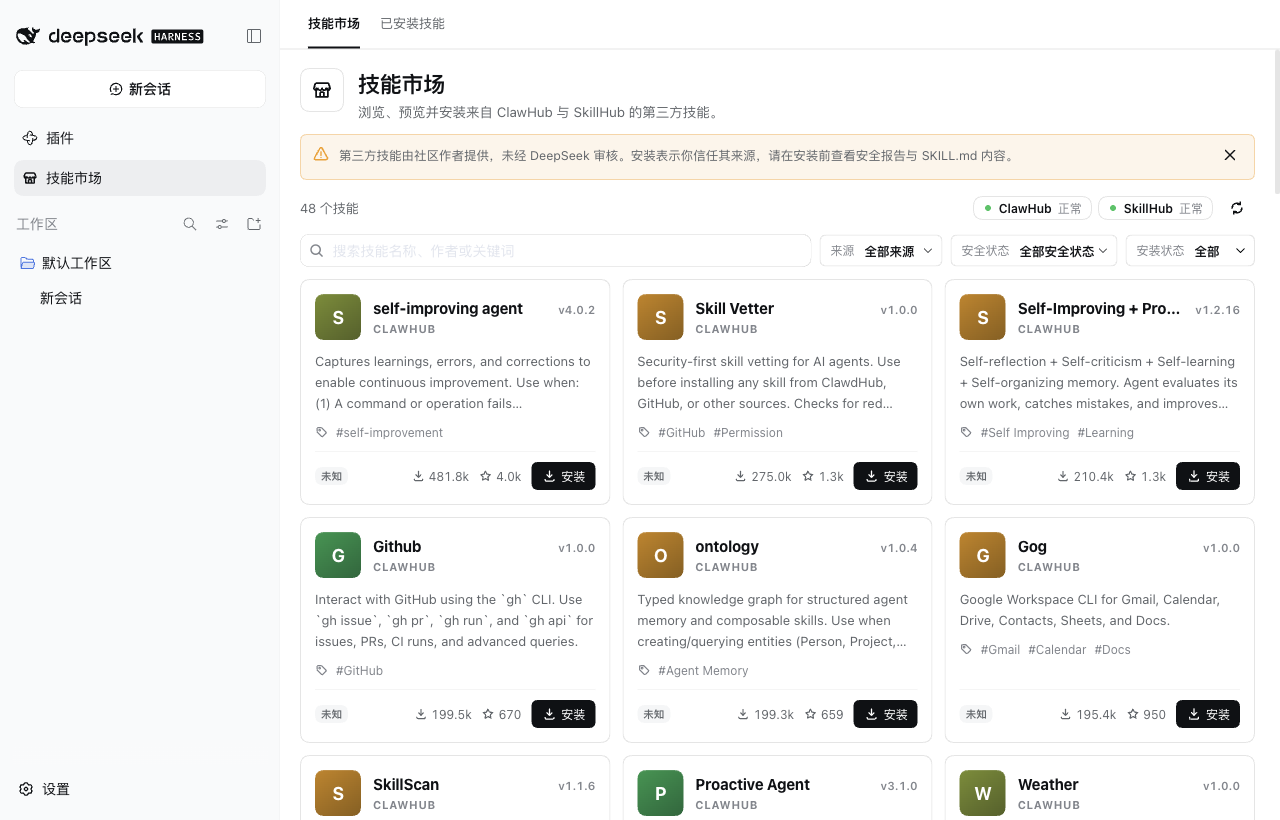
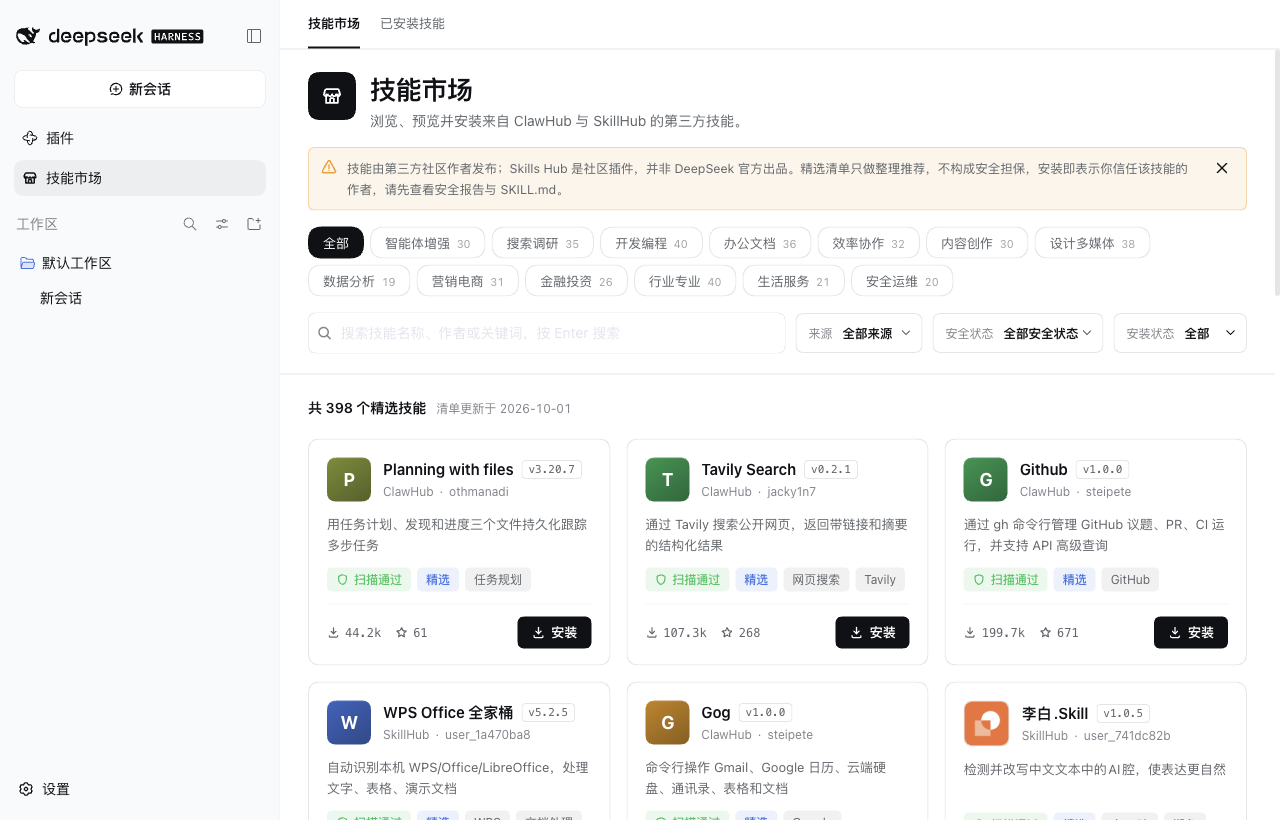
chore: release skills hub 0.0.3

diff --git a/docs/RELEASE.md b/docs/RELEASE.md
@@ -1,6 +1,6 @@
-# Release 0.0.2
+# Release 0.0.3
 
-Package: `@nanmicoder/dsh-skills-hub`. Repository: `NanmiCoder/dsh-skills-hub`. Tag: `v0.0.2`. npm channel: `latest`. This plugin release is independent of the host's `0.2.0-rc.2` version and retains that exact compatibility cohort.
+Package: `@nanmicoder/dsh-skills-hub`. Repository: `NanmiCoder/dsh-skills-hub`. Tag: `v0.0.3`. npm channel: `latest`. This plugin release is independent of the host's `0.2.0-rc.2` version and retains that exact compatibility cohort.
 
 ## Before publication
 
@@ -11,7 +11,7 @@ Package: `@nanmicoder/dsh-skills-hub`. Repository: `NanmiCoder/dsh-skills-hub`. 
 
 ## GitHub Actions publication
 
-Publication runs online in `.github/workflows/release.yml`, matching the AgentTeams release model. Push `v0.0.2` to trigger it, or dispatch the workflow with an explicit version. Both Node 22.19 and 24 must pass validation. The Node 24 job uploads the built tarball and SHA-256 checksum; the publication job verifies and publishes that exact artifact using npm 11.19.0. It does not rebuild during publication. A GitHub Release is published only after npm succeeds.
+Publication runs online in `.github/workflows/release.yml`, matching the AgentTeams release model. Push `v0.0.3` to trigger it, or dispatch the workflow with an explicit version. Both Node 22.19 and 24 must pass validation. The Node 24 job uploads the built tarball and SHA-256 checksum; the publication job verifies and publishes that exact artifact using npm 11.19.0. It does not rebuild during publication. A GitHub Release is published only after npm succeeds.
 
 Configure npm Trusted Publishing for GitHub owner `NanmiCoder`, repository `dsh-skills-hub`, workflow `release.yml`, environment `npm`, allowing direct publication. OIDC uses `id-token: write`; routine releases need no local npm login and no stored npm token. The existing AgentTeams trust binding is package-specific and does not authorize this new package.
 
@@ -21,4 +21,4 @@ Before tagging, commit all source and generated artifacts, confirm the version a
 
 ## After publication / recovery
 
-Install `@nanmicoder/dsh-skills-hub@0.0.2` into an isolated profile and repeat the smoke flow. Compare the downloaded package and expected version before announcing availability. If a release is faulty, publish a new fixed version or deprecate the faulty version with a clear message; do not rewrite published Git tags or assume deleting a GitHub Release retracts npm. Preserve user skills when removing or replacing the plugin.
+Install `@nanmicoder/dsh-skills-hub@0.0.3` into an isolated profile and repeat the smoke flow. Compare the downloaded package and expected version before announcing availability. If a release is faulty, publish a new fixed version or deprecate the faulty version with a clear message; do not rewrite published Git tags or assume deleting a GitHub Release retracts npm. Preserve user skills when removing or replacing the plugin.

diff --git a/README_EN.md b/README_EN.md
@@ -19,16 +19,17 @@
 
 Search ClawHub and SkillHub, read a skill’s instructions, and install it into Harness. Manage marketplace installations and existing local skills together in **Installed**.
 
-Current version: **0.0.2**. Browsed lists, details and file previews are cached locally for 60 minutes by default and remain available after restarting the desktop app. [Release notes](./release-notes/v0.0.2.md)
+Current version: **0.0.3**. The home page now opens on 398 curated skills in 13 categories, with a redesigned detail page that explains what a skill will do once installed. [Release notes](./release-notes/v0.0.3.md)
 
 <p align="center">
-  <img src="./assets/readme/marketplace.png" width="100%" alt="Skills Hub marketplace with search, filters and skill cards.">
+  <img src="./assets/readme/marketplace.png" width="100%" alt="Skills Hub marketplace with categories, search, filters and curated skill cards.">
 </p>
 
 | Feature | What it does |
 | --- | --- |
-| **Discover skills** | Search and filter ClawHub and SkillHub together, with more results as you scroll. |
-| **Preview before installing** | Read instructions, inspect files and check security reports from the source. |
+| **Curated catalogue** | 398 popular ClawHub and SkillHub skills in 13 categories, shipped with the plugin and shown instantly. |
+| **Live search** | Type a keyword to search every skill on both marketplaces; same-name skills are told apart by author. |
+| **Preview before installing** | Read instructions and files, check upstream scans, and see the commands, secrets and network hosts a skill uses. |
 | **Manage installed skills** | Search local skills, inspect their source and installation path, and confirm removal. |
 | **Local cache** | Reuse browsed pages, details and file previews across desktop restarts. |
 
@@ -47,18 +48,18 @@ https://github.com/NanmiCoder/dsh-skills-hub
 **Or the npm package name**
 
 ```text
-@nanmicoder/dsh-skills-hub@0.0.2
+@nanmicoder/dsh-skills-hub@0.0.3
 ```
 
 Click **Install → Enable now**, then open **Skills Hub** from the sidebar.
 
 ## Use
 
-1. **Find**: enter a keyword or filter by source and security status.
+1. **Find**: browse the curated catalogue by category, or enter a keyword to search every skill.
 2. **Preview**: open a skill to read its instructions and inspect its files.
 3. **Install and manage**: confirm installation, then find or remove it in **Installed**.
 
-Skills come from third-party authors. Check the source and instructions before installing; security reports are provided for reference.
+Skills are published by third-party community authors. Skills Hub is a community plugin, not a DeepSeek product. The curated list is a recommendation, not a security guarantee; check the security report and SKILL.md before installing.
 
 ## Installed skills
 

diff --git a/README.md b/README.md
@@ -19,16 +19,17 @@
 
 搜索 ClawHub 和 SkillHub 中的技能，阅读使用说明，再安装到 Harness。市场安装的技能和本机已有技能，都可以在「已安装技能」中查看和管理。
 
-当前版本：**0.0.2**。浏览过的列表、详情和文件预览默认缓存 60 分钟，退出桌面端后再次打开仍可复用。[更新说明](./release-notes/v0.0.2.md)
+当前版本：**0.0.3**。首页改为 398 个精选技能、13 个分类，详情页重新设计，并能说明技能安装后会做什么。[更新说明](./release-notes/v0.0.3.md)
 
 <p align="center">
-  <img src="./assets/readme/marketplace.png" width="100%" alt="Skills Hub 技能市场：搜索、筛选和技能卡片。">
+  <img src="./assets/readme/marketplace.png" width="100%" alt="Skills Hub 技能市场：分类、搜索、筛选和精选技能卡片。">
 </p>
 
 | 功能 | 说明 |
 | --- | --- |
-| **发现技能** | 聚合 ClawHub 与 SkillHub，支持搜索、筛选和滚动加载。 |
-| **安装前预览** | 阅读技能说明，查看文件内容和来源提供的安全报告。 |
+| **精选清单** | 398 个 ClawHub 与 SkillHub 热门技能，按 13 个分类整理，随插件发布，打开即看。 |
+| **实时搜索** | 输入关键词即搜索两个市场的全部技能，同名技能按作者区分。 |
+| **安装前预览** | 阅读说明和文件，查看上游安全扫描，以及技能会执行的命令、读取的密钥和访问的网络。 |
 | **管理已安装技能** | 搜索本机技能，查看来源与安装位置，确认后卸载。 |
 | **本地缓存** | 缓存已浏览的分页、详情和文件预览，重启后继续使用。 |
 
@@ -47,18 +48,18 @@ https://github.com/NanmiCoder/dsh-skills-hub
 **或 npm 包名**
 
 ```text
-@nanmicoder/dsh-skills-hub@0.0.2
+@nanmicoder/dsh-skills-hub@0.0.3
 ```
 
 点击 **安装 → 立即启用**，然后从侧栏进入 **技能市场**。
 
 ## 使用
 
-1. **查找**：输入关键词，或按来源和安全状态筛选。
+1. **查找**：按分类浏览精选清单，或输入关键词搜索全部技能。
 2. **预览**：打开技能，查看说明和文件内容。
 3. **安装与管理**：确认安装后，到「已安装技能」中查看或卸载。
 
-技能由第三方作者提供，安装前请确认来源并阅读说明；安全报告供参考。
+技能由第三方社区作者发布；Skills Hub 是社区插件，并非 DeepSeek 官方出品。精选清单只做整理推荐，不构成安全担保，安装前请查看安全报告与 SKILL.md。
 
 ## 已安装技能
 

diff --git a/docs/COMPATIBILITY.md b/docs/COMPATIBILITY.md
@@ -71,3 +71,7 @@ The home list now comes from the shipped curated catalogue, ClawHub reads are pi
 Recorded results: the home list rendered the 13 catalogue categories with counts and editor's picks dealt across categories, with no upstream list request. A flagged ClawHub skill (`self-improving-agent`) showed the suspicious scan chip, per-scanner reports including the LLM review text, the bundled `CHANGELOG.md` entry point, and an install dialog whose confirm button stayed disabled until the acknowledgement was checked. A SkillHub skill (`libai`) showed a passed scan, its catalogue category and sub-category tags. At a 720px panel the side rail moved below the document with no horizontal overflow; dark mode followed the host tokens. Installing `clawhub:weather` through the dialog wrote `"owner": "steipete"` to the sidecar and switched the page to installed; uninstalling removed the directory. `pnpm pack:check` passed 96 tests. Screenshots are kept locally in `artifacts/catalog-redesign-verify/`.
 
 The catalogue home and the installed inventory were then brought onto the same visual system (white top band over a grey canvas of 14px-radius cards, shared chips, mono counts, black primary actions), and both detail pages now share one `SkillDetailShell`. Re-verified the same way: the home shows the catalogue total and list date instead of live source health, which appears only for an explicit all-markets search (28 live results for `pdf`, with per-source status); installing from a card switched it to installed; the installed list and its detail rendered in the shared layout; a 720px panel had no horizontal overflow and dark mode followed the host tokens. `pnpm pack:check` passed 96 tests.
+
+## 0.0.3 release preparation — 2026-10-02
+
+The 0.0.3 release commit changes only version metadata, documentation and the README screenshot on top of the revisions recorded above. The README marketplace screenshot was retaken with ego-browser from the packed 0.0.3 tarball in an isolated Web profile (same `@deepseek-ai/dsh@0.2.0-rc.2` cohort, temporary `DSH_HOME`/`DSH_AGENTS_HOME`). It shows the curated home and the community-plugin disclaimer. `pnpm pack:check` was rerun on the release commit. No package was published and no tag was pushed.

diff --git a/release-notes/v0.0.3.md b/release-notes/v0.0.3.md
@@ -1,0 +1,12 @@
+# Skills Hub 0.0.3
+
+`@nanmicoder/dsh-skills-hub` for DeepSeek Harness **0.2.0-rc.2**.
+
+- **Curated catalogue.** The home page now opens on 398 hand-picked skills from ClawHub and SkillHub, grouped into 13 categories (agents, research, development, office, productivity, content, media, data, marketing, finance, professional, life, security) with editor's picks first. The list ships with the plugin, so it renders instantly and offline; details, files and installs are still read live from upstream and cached. Searching switches to live results from both marketplaces.
+- **Redesigned detail page.** Header with downloads, installs, stars and file count; Overview, Files, Security and Changelog tabs; a rule-based "what this skill will do" panel (shell commands, hooks, secrets, network hosts, workspace writes, required binaries) and "when it triggers" list, both derived from the skill's own files; per-scanner security reports from upstream.
+- **Install confirmation.** The dialog lists what the skill will be able to do, where it will be installed, and requires an explicit acknowledgement for skills that are unscanned or flagged by upstream scanners.
+- **Same-name skills resolved by author.** ClawHub slugs can be shared by several authors. Details, file previews and installs are now pinned to the author shown on the card, live search shows one entry per slug, and a mirror is only folded into an original by the same author. Installed skills record their author.
+- **Unified look.** Marketplace home, detail pages and Installed share one visual system, and fit the docked 720px panel in light and dark themes.
+- Copy now states plainly that Skills Hub is a community plugin, not a DeepSeek product, and that the curated list is a recommendation rather than a security guarantee.
+
+Install in **DeepSeek Harness desktop → Plugins → Add plugin** using `@nanmicoder/dsh-skills-hub@0.0.3`, then enable the plugin. Existing skills and cache settings remain in place. Catalogue policy is documented in [CATALOG.md](../docs/CATALOG.md).

diff --git a/docs/CONTRACT.md b/docs/CONTRACT.md
@@ -1,10 +1,10 @@
-# Skills Hub 0.0.2 implementation contract
+# Skills Hub 0.0.3 implementation contract
 
 This document describes the shipped code, not a migration plan. The TypeScript models in `src/market/types.ts`, `src/skills/installed.ts` and `src/client/api.ts` define the detailed wire shapes. Update this document with API changes.
 
 ## 1. Package and host
 
-The package is `@nanmicoder/dsh-skills-hub`, version `0.0.2`. Its supported host package cohort is exactly `0.2.0-rc.2`; the desktop release line is 0.2.0. The exact upstream tag and commit are recorded in `compatibility.json` and [COMPATIBILITY.md](COMPATIBILITY.md).
+The package is `@nanmicoder/dsh-skills-hub`, version `0.0.3`. Its supported host package cohort is exactly `0.2.0-rc.2`; the desktop release line is 0.2.0. The exact upstream tag and commit are recorded in `compatibility.json` and [COMPATIBILITY.md](COMPATIBILITY.md).
 
 `cordis.patch.yml` inserts one row (`id: skills-hub`) named after the scoped package. `lib/index.js` is the host entry. `lib/client.js` is the browser factory registered with `window.__ModuleLoader__.load` under that same package name. The plugin adds a global sidebar panel and does not replace built-in components or require an agent session.
 

diff --git a/CONTRIBUTING.md b/CONTRIBUTING.md
@@ -15,7 +15,7 @@ Commit regenerated `lib/` with source changes because Git installations consume 
 For CLI users and local development, install a specific published version:
 
 ```sh
-dsh plugin --profile desktop add @nanmicoder/dsh-skills-hub@0.0.2
+dsh plugin --profile desktop add @nanmicoder/dsh-skills-hub@0.0.3
 ```
 
 Replace `desktop` with the target profile. To test a local source build:
@@ -23,7 +23,7 @@ Replace `desktop` with the target profile. To test a local source build:
 ```sh
 pnpm install --frozen-lockfile
 pnpm pack --pack-destination artifacts
-dsh plugin --profile desktop add ./artifacts/nanmicoder-dsh-skills-hub-0.0.2.tgz
+dsh plugin --profile desktop add ./artifacts/nanmicoder-dsh-skills-hub-0.0.3.tgz
 ```
 
 Fully quit and reopen the target Harness instance after a CLI install. Advanced configuration is documented in [CONFIGURATION.md](./docs/CONFIGURATION.md).

diff --git a/README_ZH.md b/README_ZH.md
@@ -2,6 +2,6 @@
 
 中文文档已成为仓库默认首页，请查看 [README.md](./README.md)。
 
-当前版本：**0.0.2**。[更新说明](./release-notes/v0.0.2.md)
+当前版本：**0.0.3**。[更新说明](./release-notes/v0.0.3.md)
 
 [English documentation](./README_EN.md)
